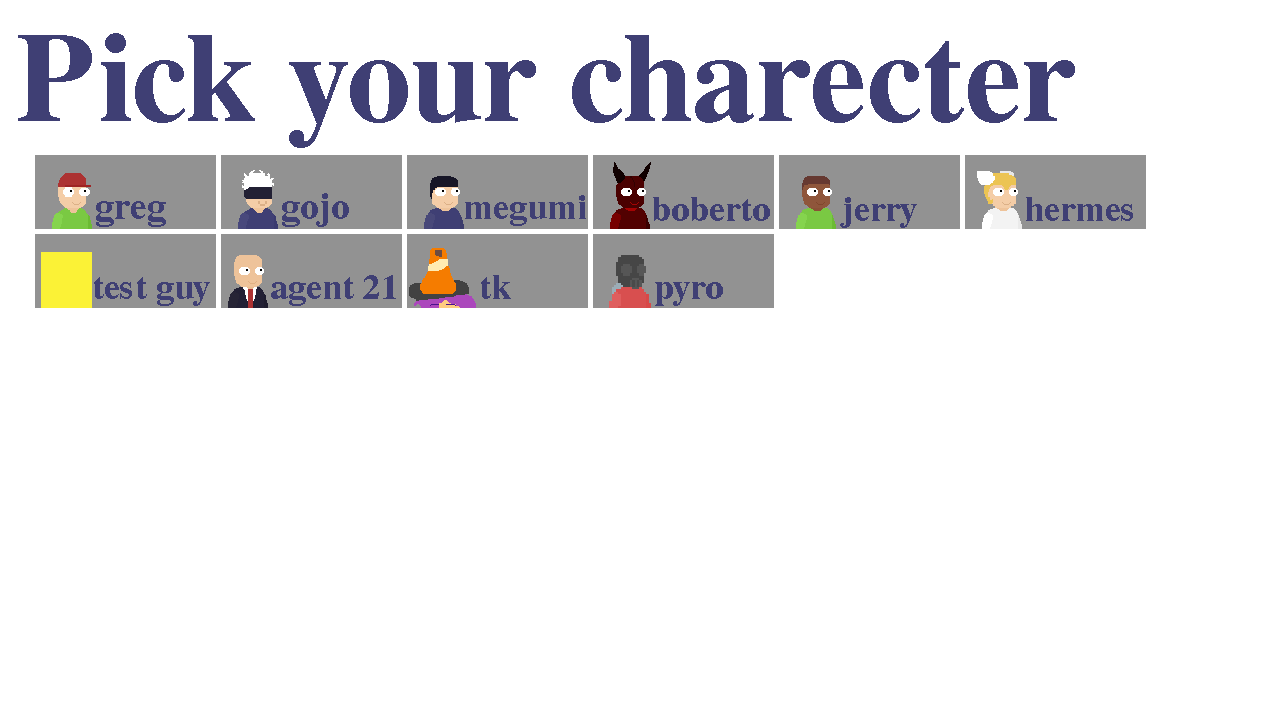
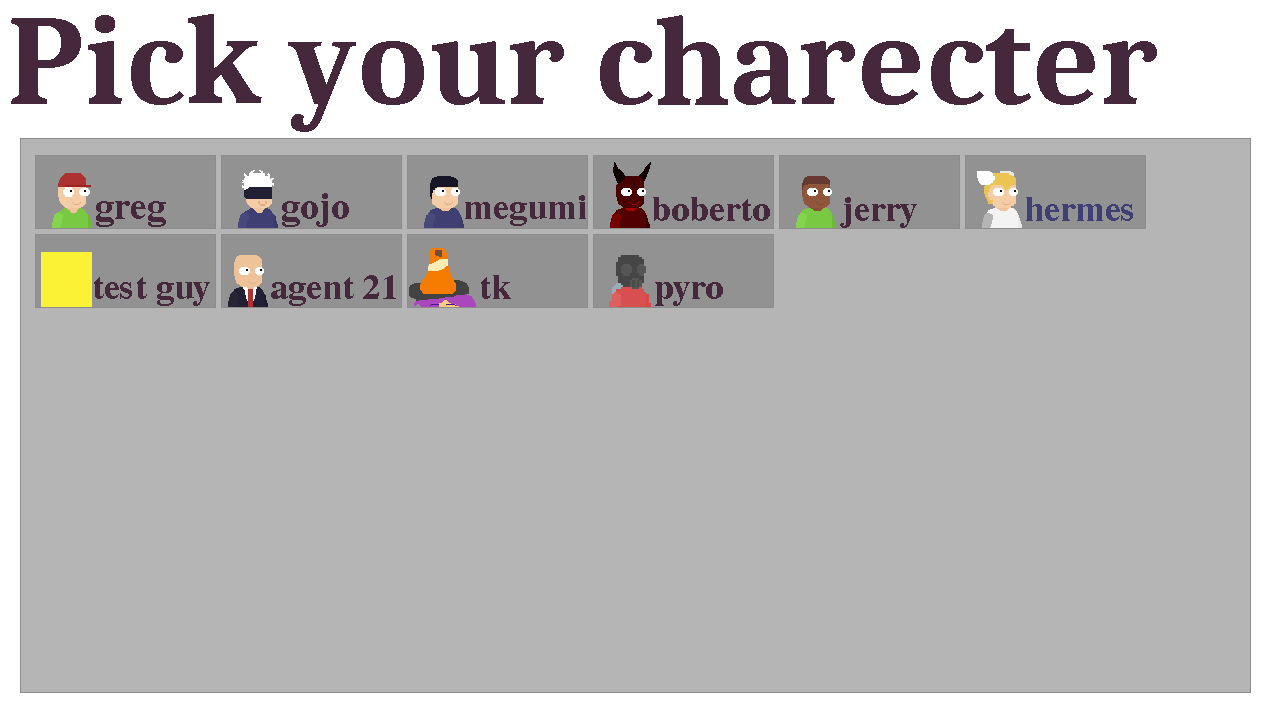
updated ui

diff --git a/players/megumi.go b/players/megumi.go
@@ -4,7 +4,6 @@ import (
 	"fmt"
 	"jjb/camera"
 	"jjb/enemyai"
-	"jjb/shaders"
 	"jjb/textures"
 	"jjb/utils"
 	"math"
@@ -19,11 +18,11 @@ func (player *Player) megumiTp() {
 }
 
 func (player *Player) megumiSnake() {
-	player.NewEntity(player.Pos, utils.Vec2{X: -(player.Pos.X + (player.Vel.X * 2) - utils.Mouse_X - camera.Cam.Offset.X + 640 + (float64(player.Img.GetTexture().Bounds().Dx()))), Y: -(player.Pos.Y + (player.Vel.Y * 2) - utils.Mouse_Y - camera.Cam.Offset.Y + 320 + (float64(player.Img.GetTexture().Bounds().Dy())))}, 0, 100, textures.NewTexture("./art/entities/megumi/snake_part.png", shaders.Snake_Head_Shader), player.megumiSnakeAi)
 	for i := 0; i < 25; i++ {
-		e := player.NewEntity(player.Pos, utils.Vec2{X: 0, Y: 0}, 0, 100, textures.NewTexture("./art/entities/megumi/snake_part.png", shaders.Snake_Ball_Shader), player.megumiSnakeBallsAi)
+		e := player.NewEntity(player.Pos, utils.Vec2{X: 0, Y: 0}, 0, 75, textures.NewTexture("./art/entities/megumi/snake_part.png", ""), player.megumiSnakeBallsAi)
 		e.SetID(1)
 	}
+	player.NewEntity(player.Pos, utils.Vec2{X: -(player.Pos.X + (player.Vel.X * 2) - utils.Mouse_X - camera.Cam.Offset.X + 640 + (float64(player.Img.GetTexture().Bounds().Dx()))), Y: -(player.Pos.Y + (player.Vel.Y * 2) - utils.Mouse_Y - camera.Cam.Offset.Y + 320 + (float64(player.Img.GetTexture().Bounds().Dy())))}, 0, 75, textures.NewTexture("./art/entities/megumi/snake_part.png", ""), player.megumiSnakeAi)
 }
 
 func (player *Player) megumiSnakeAi(entity *PlayerEntity, level_hitbox []utils.HitBox) {
@@ -235,7 +234,7 @@ func (player *Player) megumiDomain(enemies []*enemyai.Enemy) {
 }
 
 var megumi_attacks = []Attack{
-	{Player_Ref.megumiSnake, 0, 4},
+	{Player_Ref.megumiSnake, 0, 100},
 	{Player_Ref.megumiBird, 0, 4},
 	{Player_Ref.megumiMahoraga, 0, 33},
 }

diff --git a/scenes/start_menu_scene.go b/scenes/start_menu_scene.go
@@ -21,12 +21,12 @@ func Start_Menu_Scene_Draw(display_img *ebiten.Image, screen *ebiten.Image) {
 
 func Start_Menu_Scene_Update() {
 	if ebiten.IsMouseButtonPressed(ebiten.MouseButton0) && !utils.Clicked {
-		if utils.Collide(utils.Vec2{X: utils.Mouse_X, Y: utils.Mouse_Y}, utils.Vec2{X: 1, Y: 1}, utils.Vec2{X: 94, Y: 188}, utils.Vec2{X: 411, Y: 121}) {
+		if utils.Collide(utils.Vec2{X: utils.Mouse_X, Y: utils.Mouse_Y}, utils.Vec2{X: 1, Y: 1}, utils.Vec2{X: 0, Y: 41}, utils.Vec2{X: 405, Y: 153}) {
 			Current_Scene = 1
 			utils.Clicked = true
 		}
 
-		if utils.Collide(utils.Vec2{X: utils.Mouse_X, Y: utils.Mouse_Y}, utils.Vec2{X: 1, Y: 1}, utils.Vec2{X: 94, Y: 322}, utils.Vec2{X: 411, Y: 121}) {
+		if utils.Collide(utils.Vec2{X: utils.Mouse_X, Y: utils.Mouse_Y}, utils.Vec2{X: 1, Y: 1}, utils.Vec2{X: 0, Y: 206}, utils.Vec2{X: 355, Y: 151}) {
 			os.Exit(0)
 		}
 	}

diff --git a/scenes/game_scene.go b/scenes/game_scene.go
@@ -54,6 +54,9 @@ func Game_Scene_Update() {
 			players.Player_Ref = players.Players[selected_player]
 			players.InitPlayer(level.Current_Level.Player_Spawn)
 			players.Player_Ref = players.Players[selected_player]
+			players.Player_Ref.Attacks[0].Cooldown = 0
+			players.Player_Ref.Attacks[1].Cooldown = 0
+			players.Player_Ref.Attacks[2].Cooldown = 0
 		}
 	}
 
@@ -64,6 +67,9 @@ func Game_Scene_Update() {
 			players.Player_Ref = players.Players[selected_player]
 			players.InitPlayer(level.Current_Level.Player_Spawn)
 			players.Player_Ref = players.Players[selected_player]
+			players.Player_Ref.Attacks[0].Cooldown = 0
+			players.Player_Ref.Attacks[1].Cooldown = 0
+			players.Player_Ref.Attacks[2].Cooldown = 0
 		}
 	}
 

diff --git a/shaders/shader.go b/shaders/shader.go
@@ -9,24 +9,6 @@ var Base_Shader = `//kage:unit pixels
 			}
 `
 
-var Snake_Ball_Shader = `//kage:unit pixels
-			package main
-
-			func Fragment(targetCoords vec4, srcPos vec2, _ vec4) vec4 {
-				col := imageSrc0At(srcPos.xy)
-				return vec4(col.x, col.y, col.z, col.w)
-			}
-`
-
-var Snake_Head_Shader = `//kage:unit pixels
-			package main
-
-			func Fragment(targetCoords vec4, srcPos vec2, _ vec4) vec4 {
-				col := imageSrc0At(srcPos.xy)
-				return vec4(col.x, col.y, col.z, col.w)
-			}
-`
-
 var Enemy_Shader = `//kage:unit pixels
 			package main
 
